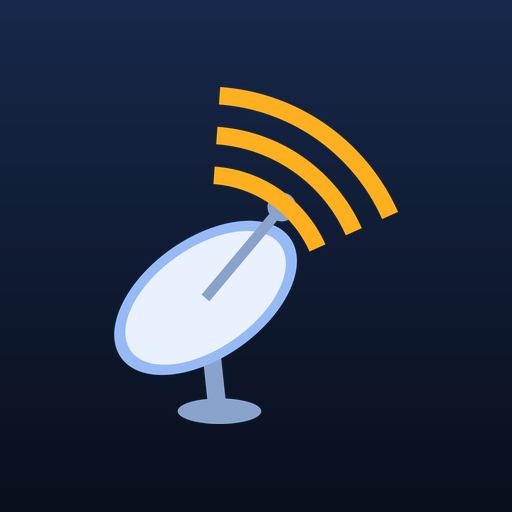
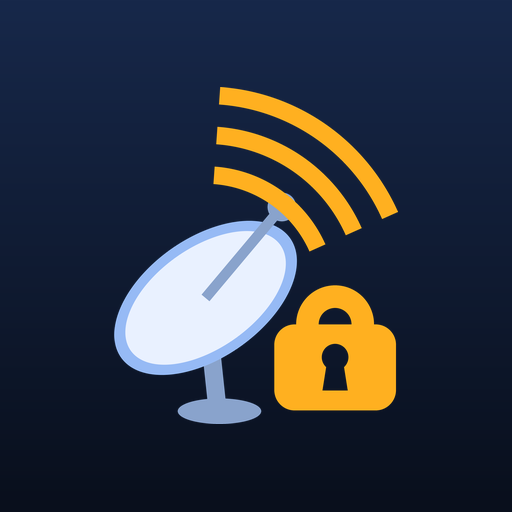
Add a padlock to the app mark and expand the Play publishing guide
The icon now carries a padlock badge so it reads as a security app at a
glance. The lock is separated from the dish by a gap punched through the
layer beneath it rather than by an outline colour, which means the same
geometry works for the monochrome themed icon, where every shape is
otherwise the same colour and would merge. The keyhole is punched the same
way.

Expands the Play Console walkthrough from five bullets into a step-by-step
guide: signed-bundle retrieval, tester list setup, Play App Signing
enrolment, the release form, installing via the opt-in link, the
versionCode rule for subsequent uploads, and the upload failures most
likely to come up.

Claude-Session: https://claude.ai/code/session_01PQd6mfMngGRvGA4ZKFCPx1

Changed region(s): [[0.5312, 0.5312, 0.7812, 0.8125]]

diff --git a/docs/PLAY_RELEASE.md b/docs/PLAY_RELEASE.md
@@ -65,9 +65,19 @@ temporary directory and never appears in logs.
 
 ## 2. Create the app in Play Console
 
-**All apps → Create app.** App name `Starlink Guard`, English (US), **App**, **Free**.
+Go to [play.google.com/console](https://play.google.com/console) → **All apps** → **Create app**.
 
-> ⚠ **Read the trademark note in section 6 before settling on the name.**
+| Field | Value | Notes |
+| --- | --- | --- |
+| App name | `Starlink Guard` | 30 characters max. Shown on the store and under the icon |
+| Default language | English (United States) | |
+| App or game | **App** | |
+| Free or paid | **Free** | ⚠ **Irreversible.** A free app can never be switched to paid later. Paid → free is allowed. Pick Free |
+
+Tick the two declarations (Developer Program Policies, US export laws) and press **Create app**.
+
+> ⚠ **Read the trademark note in section 6 before settling on the name.** The name is editable
+> later; the `applicationId` is not.
 
 ---
 
@@ -260,17 +270,103 @@ thresholds, and the alarm screen (use Test alarm) make a solid set of four.
 
 ---
 
-## 8. Ship it
+## 8. Ship it — the full walkthrough
 
-1. Push a commit — CI builds `starlink-guard-release-aab`.
-2. Download the artifact and unzip to get `app-release.aab`.
-3. Play Console → **Testing → Internal testing → Create new release**.
-4. Upload the `.aab`, add release notes, save, review, roll out.
-5. On the **Testers** tab, create an email list containing your own Google account, then copy the
-   opt-in link and open it on your phone to install through Play.
+This is the part that actually puts the app on your phone. Roughly 30 minutes end to end, most of
+it filling in forms.
 
-**Every upload needs a higher `versionCode`** than the last. Bump it in `app/build.gradle.kts`
-(`versionCode = 2`, and `versionName` when it is a meaningful change) or Play rejects the bundle.
+### 8.1 Get a signed bundle out of CI
+
+Once the four secrets from section 1 exist, push any commit. In the **Actions** tab open the
+newest **Build** run and wait for the **Release bundle** job to finish, then check its
+*Report bundle signing state* step — it must say `Signed with the upload key.` If it prints the
+`No signing secrets configured` warning instead, one of the secret names is wrong; they are
+case-sensitive and must match exactly.
+
+Download the **`starlink-guard-release-aab`** artifact. GitHub always wraps artifacts in a zip, so
+unzip it to get `app-release.aab`. That `.aab` is what you upload — **not** an APK, and not the zip.
+
+### 8.2 Set up the internal testing track and its testers
+
+Play Console → left sidebar → **Testing → Internal testing**. Do the *Testers* tab before the
+release, so the opt-in link exists the moment the release goes live.
+
+1. Open the **Testers** tab.
+2. **Create email list** → name it something like `Me`.
+3. Add the Google account email that your phone is signed in with. **This must be the exact
+   account on the device**, not an alias, or the store listing will 404 for you.
+4. **Save changes**, then tick the list so it is selected for this track.
+
+Internal testing allows up to 100 testers and has no review delay of the kind closed and open
+testing have. It is also exempt from the 12-testers-for-14-days rule that gates production on
+personal accounts.
+
+### 8.3 Create the release
+
+**Testing → Internal testing → Releases** tab → **Create new release**.
+
+**App signing.** On your very first release Play offers to enrol you in Play App Signing. Accept
+the default, *Let Google manage your app signing key*. From then on the key you generated in
+section 1 is your **upload key** — you sign with it, Google verifies it, strips it, and re-signs
+with the app signing key it holds. This is why losing your upload key is recoverable.
+
+**Upload.** Drag `app-release.aab` into the *App bundles* box. Play processes it for a few seconds,
+then shows the version, size, and the API levels and devices it supports. Sanity-check that it
+lists **target SDK 36** and `dev.starlinkguard`.
+
+**Release name.** Auto-filled as `1 (1.0)`. It is internal-only; leave it.
+
+**Release notes.** Required. The `<en-US>` tags must stay:
+
+```
+<en-US>
+First internal build. Monitors dish orientation and GPS, sounds an alarm on movement.
+</en-US>
+```
+
+**Save** → **Review release** → **Start rollout to Internal testing** → confirm.
+
+### 8.4 Clear whatever Play blocks you on
+
+Play will not let you roll out until the **Dashboard → Set up your app** checklist is complete —
+that is every item in section 3, plus a store listing with the icon, feature graphic and at least
+two screenshots. If *Start rollout* is greyed out, the release page lists the exact missing items
+at the top; work through them and come back. Errors block rollout, warnings do not.
+
+### 8.5 Install it on your phone
+
+Back on the **Testers** tab there is now a **Copy link** under *How testers join your test*. Open
+that link on the phone, signed in as the tester account:
+
+1. The page says *You're invited to test Starlink Guard* → **Accept the invite**.
+2. **Download it on Google Play** → the normal store page opens → **Install**.
+
+First propagation usually takes a few minutes and occasionally a couple of hours. If the store
+page says the item is not found, you are on the wrong Google account or the rollout has not
+finished — those are the only two causes worth checking first.
+
+### 8.6 Every build after this one
+
+**The `versionCode` must increase on every single upload.** Play rejects a bundle that reuses one,
+and this is the single most common upload failure. Edit `app/build.gradle.kts`:
+
+```kotlin
+versionCode = 2          // +1 every upload, always
+versionName = "1.0.1"    // human-facing; change when it means something
+```
+
+Then push, download the new artifact, and repeat 8.3. Updates reach installed testers through the
+normal Play update mechanism.
+
+### Failures you are most likely to hit
+
+| Message | Cause |
+| --- | --- |
+| *Upload a signed APK/bundle* / signed with debug certificate | CI secrets missing, so the bundle was unsigned. Re-check 8.1 |
+| *Version code 1 has already been used* | Bump `versionCode` |
+| *Your app targets API level X* | `targetSdk` below Play's floor — currently 36 for new apps |
+| *You need to complete the content rating questionnaire* | Section 3 is unfinished |
+| Tester link shows "item not found" | Wrong Google account on the phone, or rollout still propagating |
 
 ---
 
